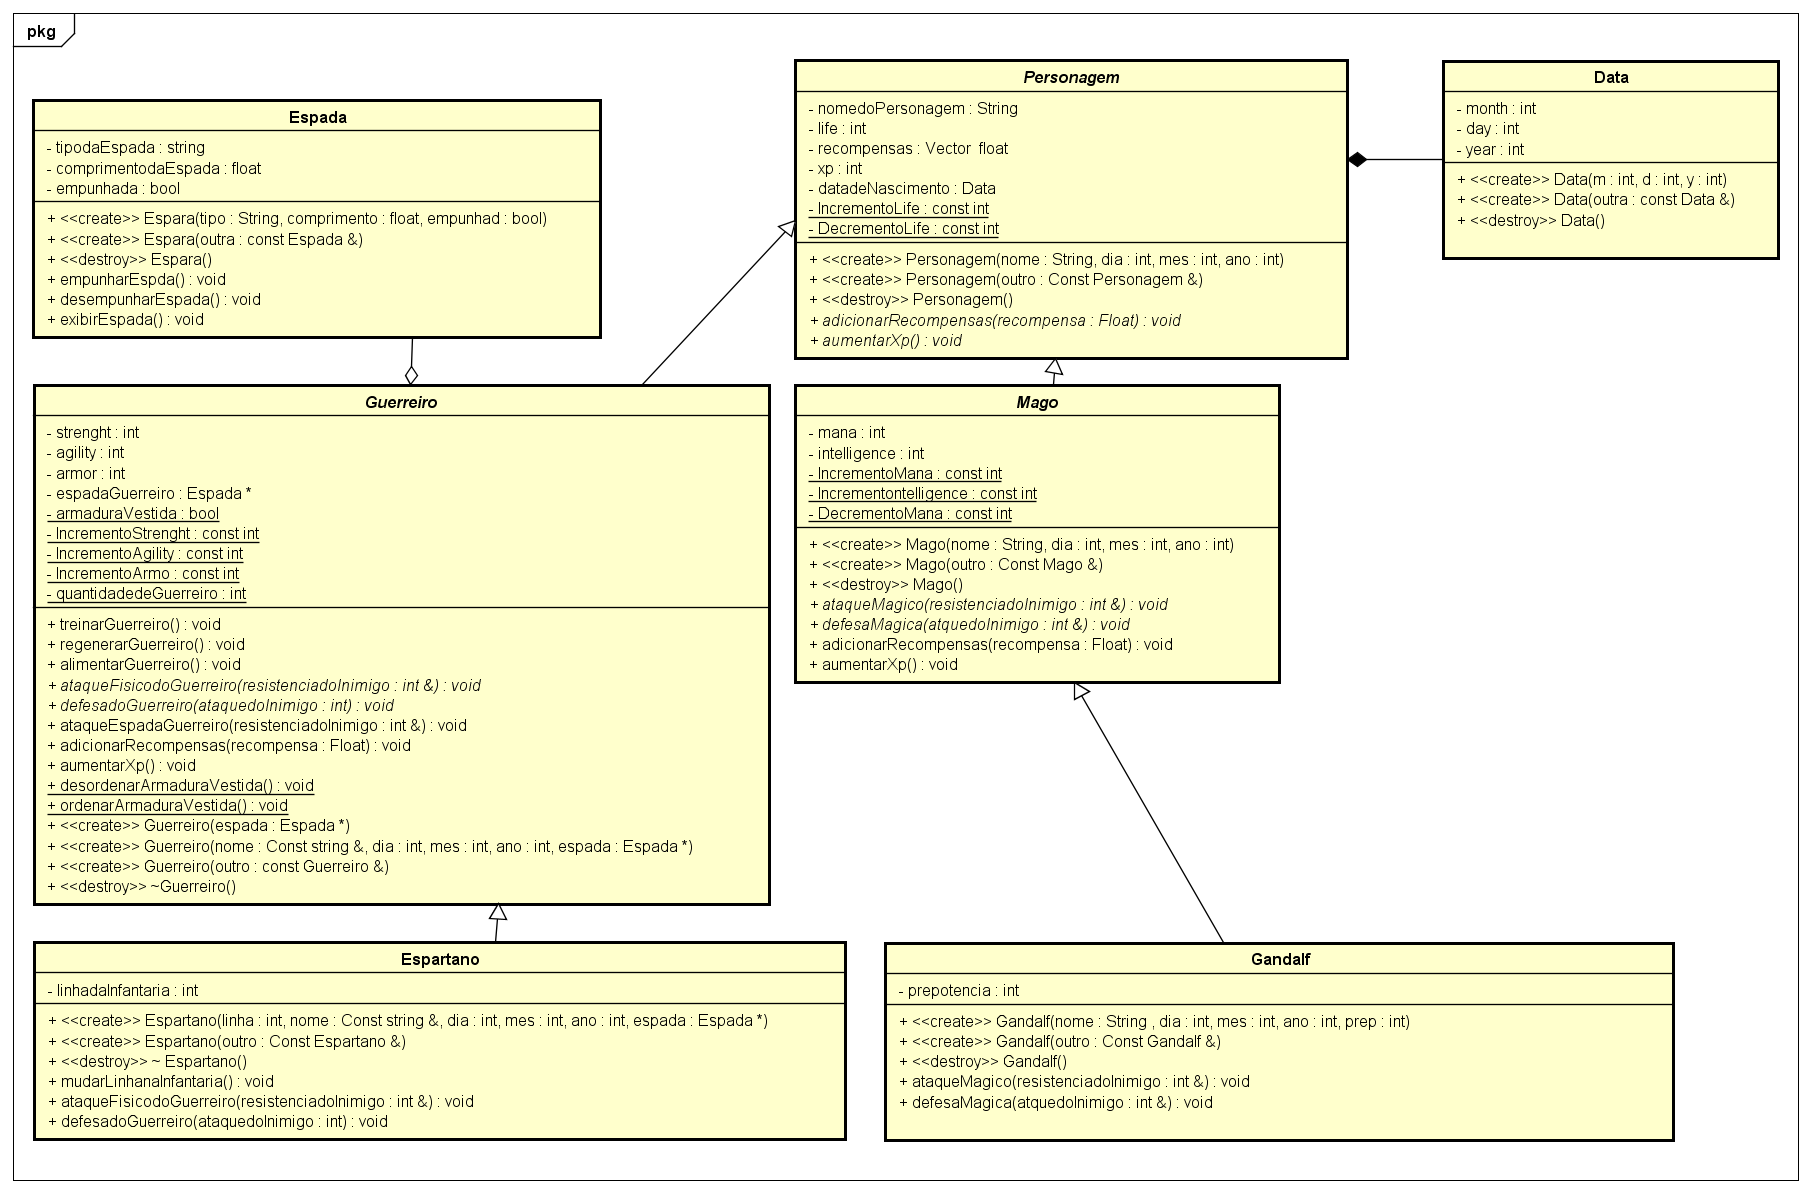
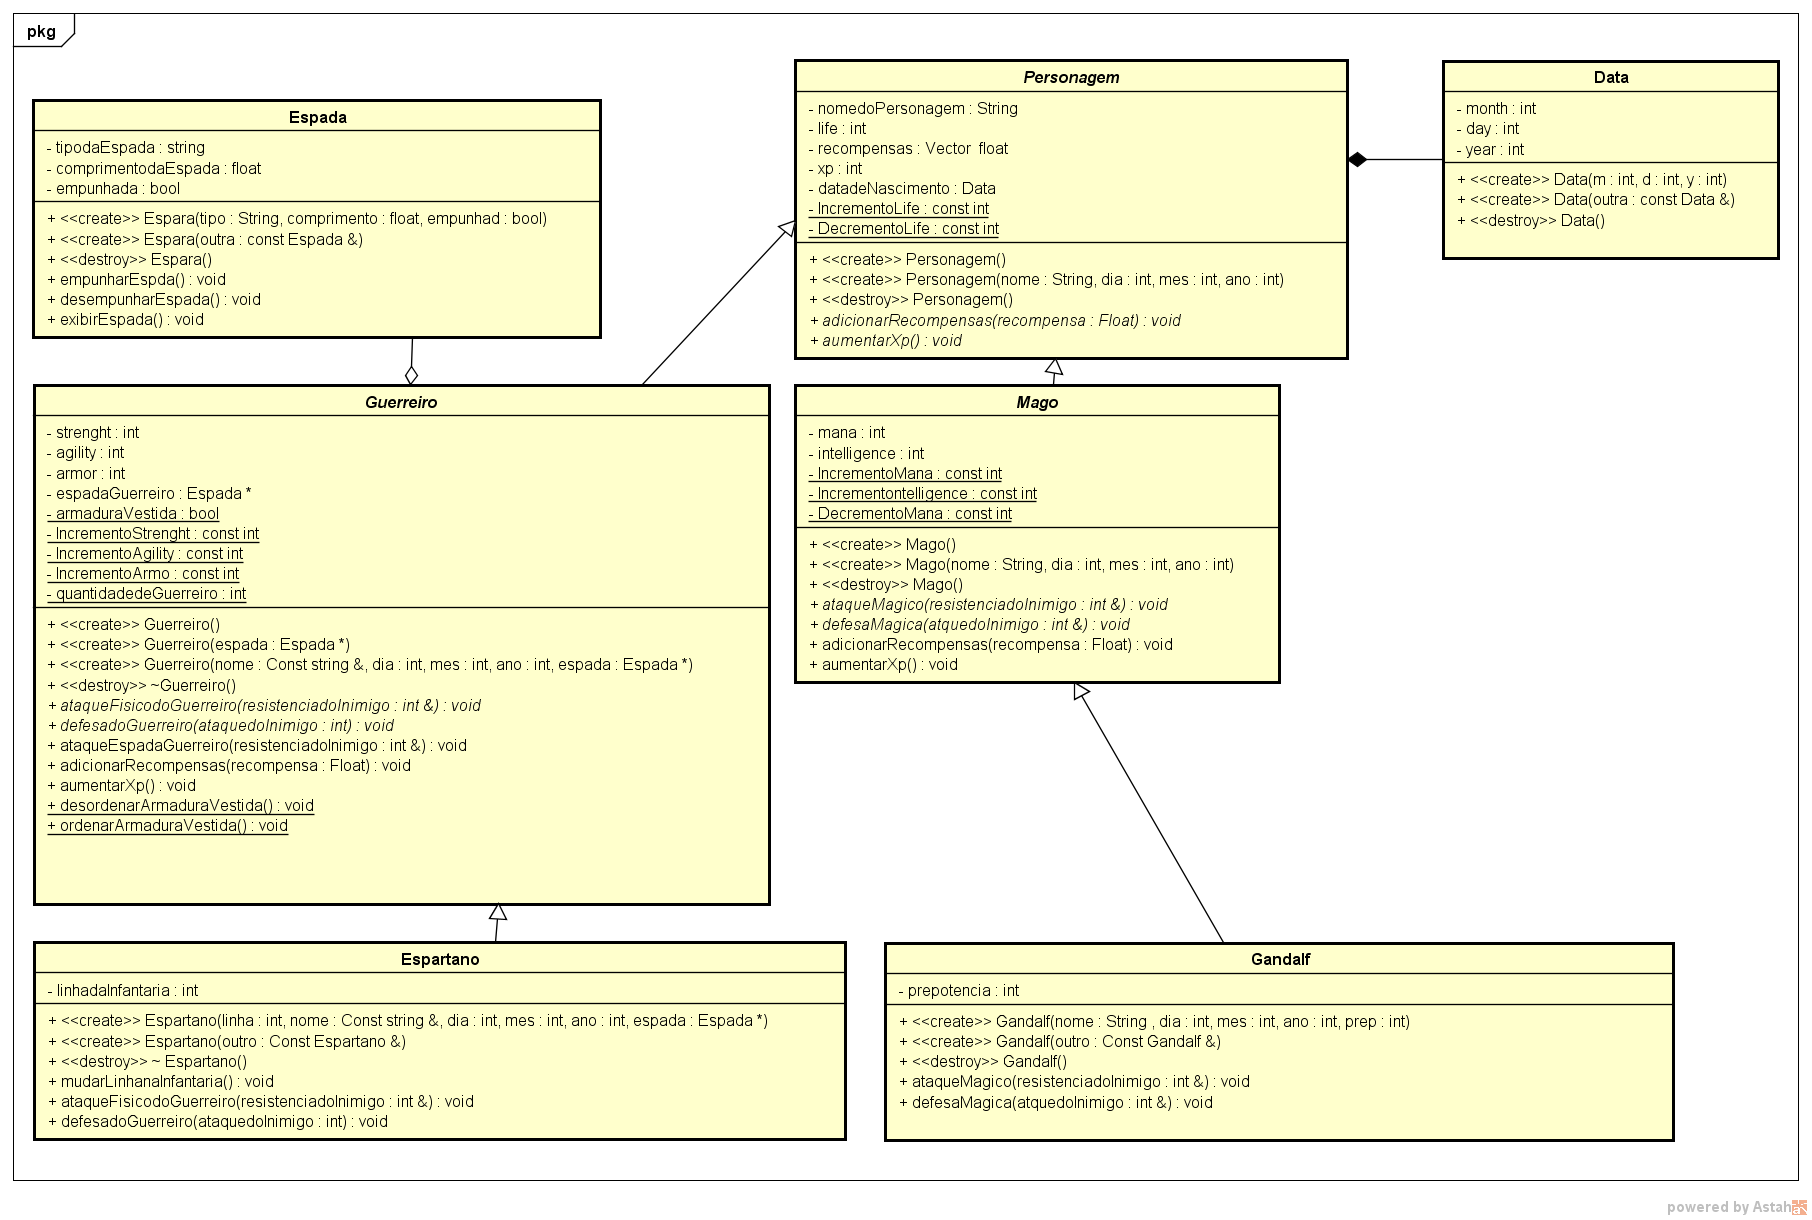
Remoção do construtores de copias das classes abstratas, tanto do diagrama UML e das implementações.

Changed region(s): [[0.0, 0.031, 1.0, 1.0], [0.7417, 0.031, 0.989, 0.2171], [0.3709, 0.2481, 0.4018, 0.2791]]

diff --git a/Guerreiro/Guerreiro.cpp b/Guerreiro/Guerreiro.cpp
@@ -21,27 +21,7 @@ Guerreiro::Guerreiro( const string &nome,int dia, int mes, int ano, Espada *espa
         this->espadadoGuerreiro = espada;
         quantidadedeGuerreiros++;
 }
- Guerreiro::Guerreiro(const Guerreiro &outro)
- 
- {
-     this->strenght = outro.strenght;
-     this->agility = outro.agility;
-     this->armor = outro.armor;
- 
-   
-    this->nomedoPersonagem = outro.nomedoPersonagem;
-    this->life = outro.life;
-    this->recompensas = outro.recompensas;
-    
-    datadeNascimento.setmonth(outro.datadeNascimento.getmonth());
-    datadeNascimento.setyear(outro.datadeNascimento.getyear());
-    datadeNascimento.setday(outro.datadeNascimento.getday());
-    
-     this->espadadoGuerreiro = 0;
-     
-     quantidadedeGuerreiros++;
-    }
-    
+
 Guerreiro::~Guerreiro(){
     quantidadedeGuerreiros--;
     

diff --git a/Guerreiro/Personagem.cpp b/Guerreiro/Personagem.cpp
@@ -10,18 +10,6 @@ Personagem::Personagem(const string &nome,int dia, int mes, int ano)
     this->nomedoPersonagem = nome;
     this->xp = 1;
 }
-Personagem::Personagem(const Personagem &outro)
-{
-    this->nomedoPersonagem = outro.nomedoPersonagem;
-    this->life = outro.life;
-    this->xp = outro.xp;
-    this->recompensas = outro.recompensas;
-    
-    datadeNascimento.setmonth(outro.datadeNascimento.getmonth());
-    datadeNascimento.setyear(outro.datadeNascimento.getyear());
-    datadeNascimento.setday(outro.datadeNascimento.getday());
-    
-}
 
 Personagem::~Personagem(){
     

diff --git a/Guerreiro/Mago.cpp b/Guerreiro/Mago.cpp
@@ -10,21 +10,6 @@ Mago::Mago(const string &nome,int dia, int mes, int ano)
 {
 
 }
-Mago::Mago(const Mago &outro)
- {
-     this->nomedoPersonagem = outro.nomedoPersonagem;
-     this->life = outro.life;
-     this->xp= outro.xp;
-
-    this->recompensas = outro.recompensas;
-
-    datadeNascimento.setmonth(outro.datadeNascimento.getmonth());
-    datadeNascimento.setyear(outro.datadeNascimento.getyear());
-    datadeNascimento.setday(outro.datadeNascimento.getday());
-     
-     this->mana = outro.mana;
-     this->intelligence = outro.intelligence;
-}
 
 Mago::~Mago(){
     

diff --git a/Guerreiro/Personagem.h b/Guerreiro/Personagem.h
@@ -17,7 +17,6 @@ class Personagem
 public:
     Personagem();
     Personagem(const string &, int , int , int);
-    Personagem(const Personagem &);
     ~Personagem();
     
     virtual void adicionarRecompensas(float) = 0;

diff --git a/Guerreiro/Mago.h b/Guerreiro/Mago.h
@@ -13,7 +13,6 @@ class Mago: public Personagem
 public:
     inline Mago() {};
     Mago(const string &, int, int, int);
-    Mago(const Mago &);
     ~Mago();
     
     virtual void ataqueMagico(int &) = 0;

diff --git a/Guerreiro/Guerreiro.h b/Guerreiro/Guerreiro.h
@@ -17,7 +17,7 @@ public:
     inline Guerreiro(){};
     Guerreiro(Espada *);
     Guerreiro(const string &, int, int, int , Espada *);
-    Guerreiro(const Guerreiro &);
+ 
     ~Guerreiro();
 
 
